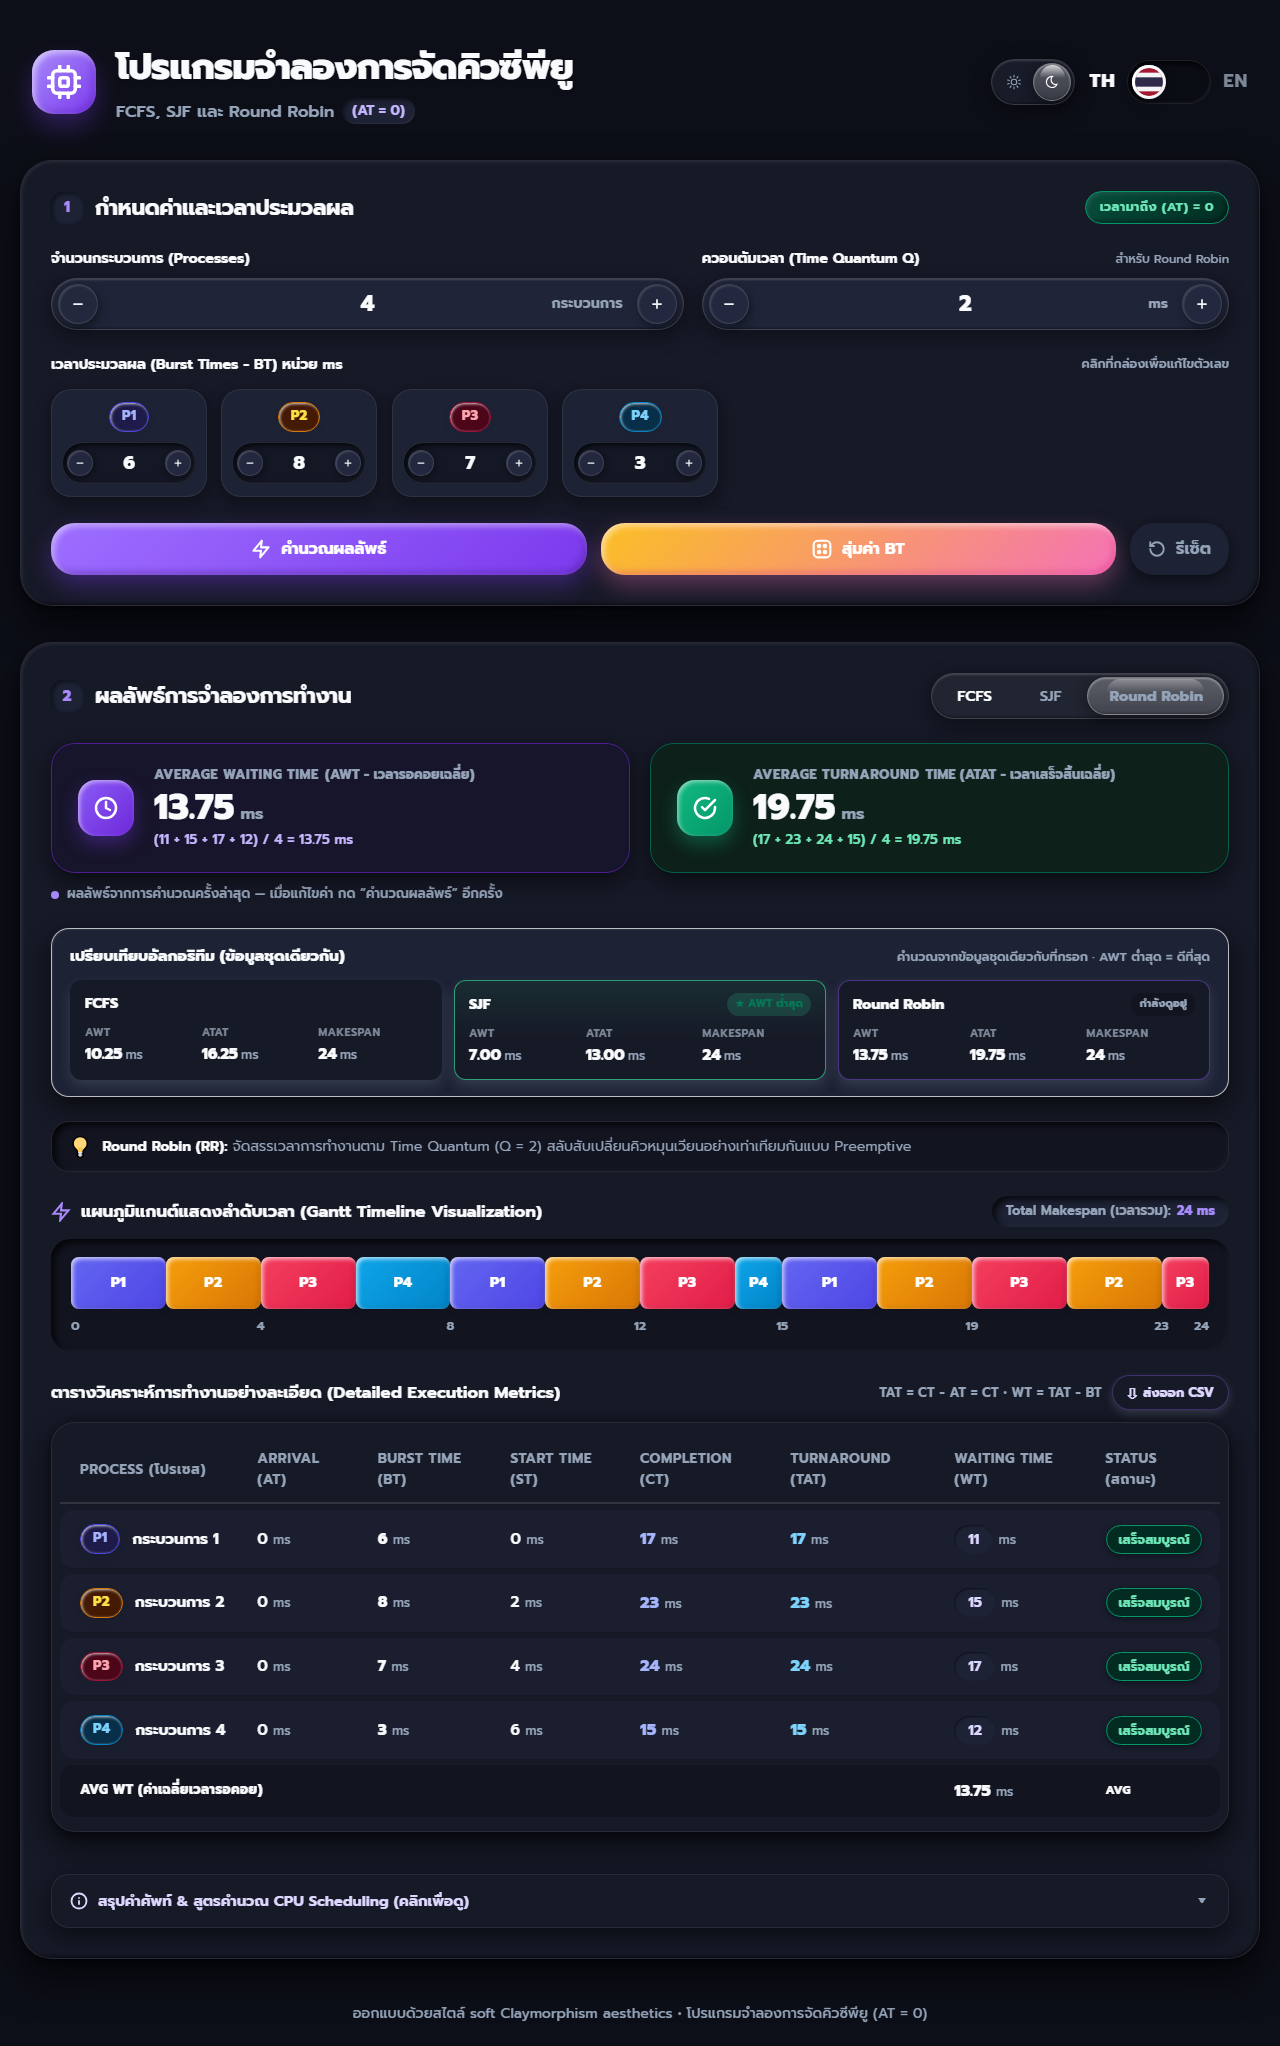
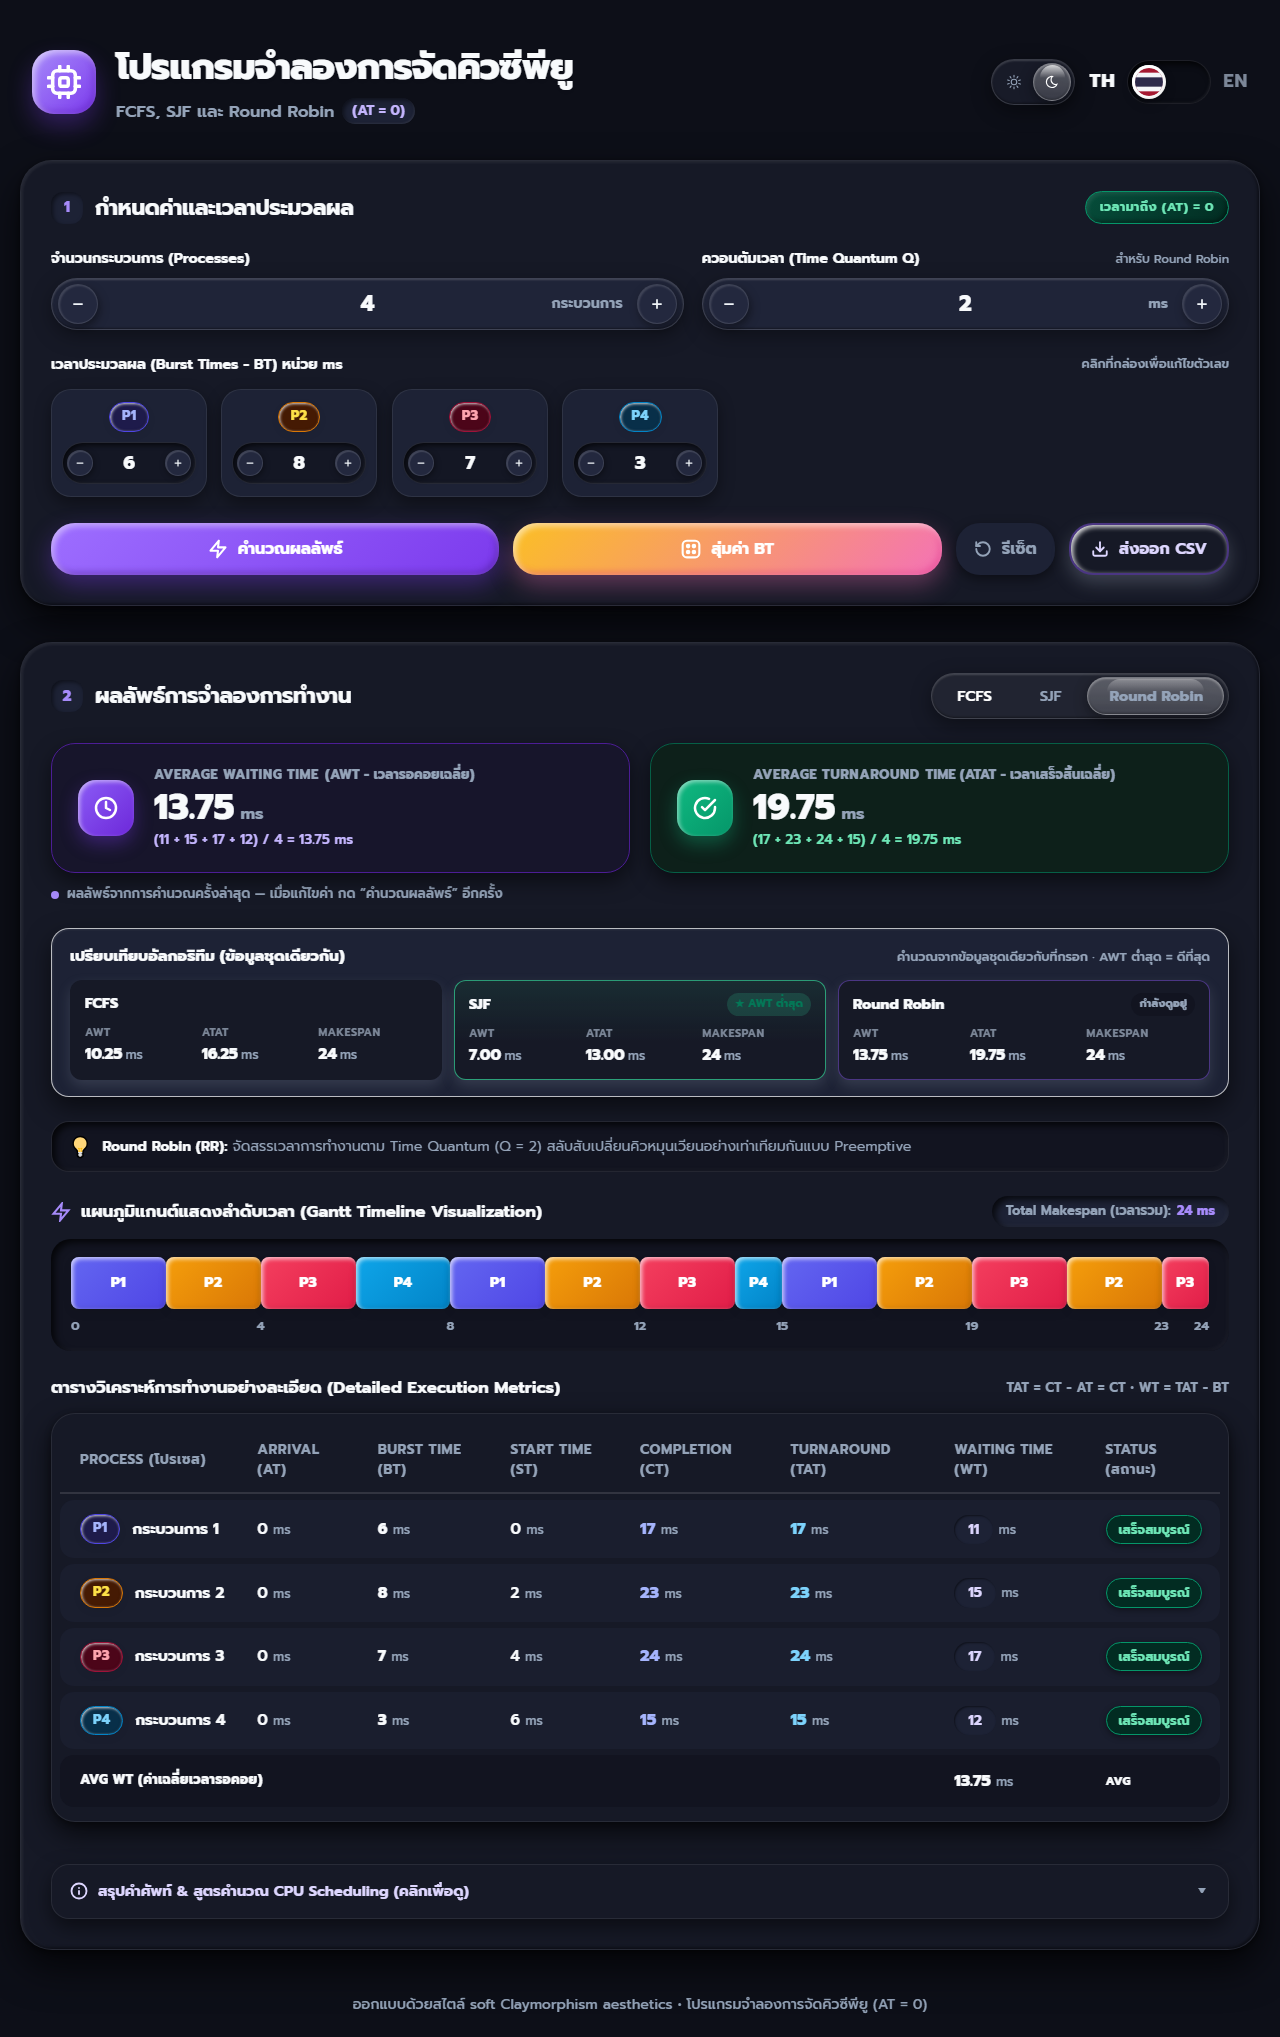
fix(ui): move the CSV export into the main action bar
- the export button now sits next to Calculate / Randomise / Reset where users
  look for actions, instead of the easily missed spot in the table header
- give it the same 52px height as the other buttons, a download icon, a 2px
  accent border and a hover state so it reads as a real action
- keep type="button" so clicking it never submits the form
- refresh the README screenshots and mention the new location

diff --git a/index.html b/index.html
@@ -249,6 +249,16 @@
               </svg>
               <span id="btn-reset-text">รีเซ็ต</span>
             </button>
+
+            <button type="button" id="btn-export" class="clay-btn btn-export" title="ดาวน์โหลดผลลัพธ์เป็น CSV">
+              <svg width="18" height="18" viewBox="0 0 24 24" fill="none" stroke="currentColor" stroke-width="2.5"
+                stroke-linecap="round" stroke-linejoin="round" aria-hidden="true">
+                <path d="M21 15v4a2 2 0 0 1-2 2H5a2 2 0 0 1-2-2v-4"></path>
+                <polyline points="7 10 12 15 17 10"></polyline>
+                <line x1="12" y1="15" x2="12" y2="3"></line>
+              </svg>
+              <span id="btn-export-text">ส่งออก CSV</span>
+            </button>
           </div>
         </form>
       </section>
@@ -382,15 +392,9 @@
               <div class="section-title-wrap">
                 <span class="section-heading-text" id="label-table-title">ตารางวิเคราะห์การทำงานอย่างละเอียด (Detailed Execution Metrics)</span>
               </div>
-              <div class="table-header-actions">
-                <span class="formula-hint-badge" id="formula-hint-text">
-                  TAT = CT - AT = CT &bull; WT = TAT - BT
-                </span>
-                <button type="button" class="btn-export" id="btn-export" title="ดาวน์โหลดผลลัพธ์เป็น CSV">
-                  <span class="btn-export-icon" aria-hidden="true">⇩</span>
-                  <span id="btn-export-text">ส่งออก CSV</span>
-                </button>
-              </div>
+              <span class="formula-hint-badge" id="formula-hint-text">
+                TAT = CT - AT = CT &bull; WT = TAT - BT
+              </span>
             </div>
 
             <div class="table-outer-clay">

diff --git a/styles.css b/styles.css
@@ -1562,36 +1562,20 @@ body {
   letter-spacing: 0.02em;
 }
 
-/* กลุ่มปุ่ม/ป้ายท้ายหัวข้อตาราง + ปุ่มส่งออก CSV */
-.table-header-actions {
-  display: flex;
-  align-items: center;
-  gap: 10px;
-  flex-wrap: wrap;
-}
+/* ปุ่มส่งออก CSV — อยู่ในแถวปุ่มหลัก (หลังปุ่มรีเซ็ต) ให้เห็นได้ทันที */
 .btn-export {
-  display: inline-flex;
-  align-items: center;
-  gap: 6px;
-  padding: 7px 14px;
-  border: 1px solid rgba(139, 92, 246, 0.35);
-  border-radius: var(--radius-pill);
   background: var(--bg-card);
   color: var(--clay-purple-dark);
-  font-family: var(--font-heading);
-  font-weight: 800;
-  font-size: 0.8rem;
-  cursor: pointer;
-  box-shadow: 0 4px 10px rgba(166, 175, 195, 0.22);
-  transition: transform 0.15s ease, box-shadow 0.15s ease, background 0.15s ease;
+  border: 2px solid rgba(139, 92, 246, 0.45);
+  box-shadow: 0 8px 18px rgba(166, 175, 195, 0.28), inset 2px 2px 5px rgba(255, 255, 255, 0.9);
+  /* padding หักลบขอบ 2px เพื่อให้สูงเท่าปุ่มอื่นในแถวเดียวกัน */
+  padding: 12px 20px;
+  flex: 0 0 auto;
 }
 .btn-export:hover {
-  transform: translateY(-1px);
   background: var(--bg-card-alt);
-  box-shadow: 0 6px 14px rgba(166, 175, 195, 0.28);
+  border-color: rgba(139, 92, 246, 0.75);
 }
-.btn-export:active { transform: translateY(0); }
-.btn-export-icon { font-size: 0.95rem; line-height: 1; }
 
 /* แถว AVG WT ท้ายตาราง (ข้อกำหนด: ตารางต้องมีค่าเฉลี่ยเวลารอคอย) */
 .clay-data-table tfoot .avg-row td {

diff --git a/README.md b/README.md
@@ -29,7 +29,7 @@ An interactive, responsive CPU-scheduling simulator built with vanilla HTML/CSS/
 - **Summary cards** — Average Waiting Time and Average Turnaround Time with the full arithmetic, e.g. `(0 + 6 + 14 + 21) / 4 = 10.25 ms`, plus the total makespan.
 - **Algorithm comparison** — FCFS, SJF and Round Robin are all computed from the same input and shown side by side (AWT, ATAT and makespan); the lowest AWT is highlighted and the algorithm currently on screen is marked.
 - **AVG WT footer** — the table ends with an average-waiting-time row, so the requested `AVG WT` value is part of the table itself.
-- **CSV export** — one click downloads the current view (per-process table, averages and the three-algorithm comparison) as a UTF-8 CSV that keeps Thai text readable in Excel.
+- **CSV export** — the **Export CSV** button in the main action bar (next to *Calculate / Randomise / Reset*) downloads the current view (per-process table, averages and the three-algorithm comparison) as a UTF-8 CSV that keeps Thai text readable in Excel.
 
 ### Input & controls
 
